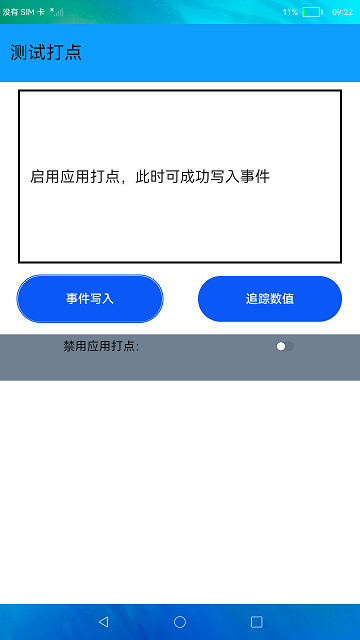
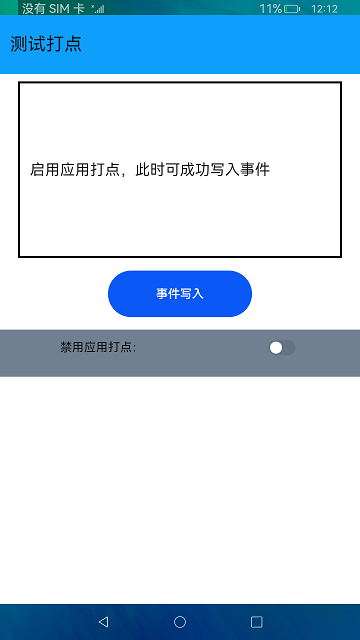
!922 应用打点删除废弃接口 * update code

diff --git a/DFX/JsDotTest/entry/src/main/js/MainAbility/pages/index/index.js b/DFX/JsDotTest/entry/src/main/js/MainAbility/pages/index/index.js
@@ -14,57 +14,42 @@
  */
 
 import prompt from '@ohos.prompt';
-import hiTraceMeter from '@ohos.hiTraceMeter';
 import hiAppEvent from '@ohos.hiAppEvent';
 
 export default {
-    data: {
-        Text: ''
-    },
+  data: {
+    Text: ''
+  },
 
-    appEvent: function () {
-        hiAppEvent.write("test_event", hiAppEvent.EventType.STATISTIC, {
-            "int_data": 100, "str_data": "strValue"
-        }, (err, value) => {
-            if (err) {
-                console.error(`failed to write event because ${err.code}`);
-                this.Text = this.$t('strings.write_failed') + JSON.stringify(err)
-                return;
-            }
+  appEvent: function () {
+    hiAppEvent.write("test_event", hiAppEvent.EventType.STATISTIC, {
+      "int_data": 100, "str_data": "strValue"
+    }, (err, value) => {
+      if (err) {
+        console.error(`failed to write event because ${err.code}`);
+        this.Text = this.$t('strings.write_failed') + JSON.stringify(err)
+        return;
+      }
 
-            prompt.showToast({
-                message: "success to write event"
-            });
-            this.Text = this.$t('strings.write_success');
-            console.log(`success to write event: ${value}`);
-        });
-    },
+      prompt.showToast({
+        message: "success to write event"
+      });
+      this.Text = this.$t('strings.write_success');
+      console.log(`success to write event: ${value}`);
+    });
+  },
 
-    hiTraceMeter: function () {
-        hiTraceMeter.startTrace("start TestFunc", 1)
-        let sum = 0;
-        hiTraceMeter.traceByValue("start TestNum", sum)
-        for (let index = 0; index < 1000; index++) {
-            sum = sum + index;
-        }
-        hiTraceMeter.traceByValue("finish TestNum", sum)
-        prompt.showToast({
-            message: "finish add"
-        })
-        hiTraceMeter.finishTrace("finish TestFunc", 1);
-    },
-
-    switchChange(e) {
-        if (e.checked) {
-            hiAppEvent.configure({
-                disable: e.checked
-            });
-            this.Text = this.$t('strings.appDisabled');
-        } else {
-            hiAppEvent.configure({
-                disable: e.checked
-            });
-            this.Text = this.$t('strings.appAble')
-        }
+  switchChange(e) {
+    if (e.checked) {
+      hiAppEvent.configure({
+        disable: e.checked
+      });
+      this.Text = this.$t('strings.appDisabled');
+    } else {
+      hiAppEvent.configure({
+        disable: e.checked
+      });
+      this.Text = this.$t('strings.appAble')
     }
+  }
 }

diff --git a/DFX/JsDotTest/entry/src/main/js/MainAbility/app.js b/DFX/JsDotTest/entry/src/main/js/MainAbility/app.js
@@ -14,10 +14,10 @@
  */
 
 export default {
-    onCreate() {
-        console.info("Application onCreate");
-    },
-    onDestroy() {
-        console.info("Application onDestroy");
-    }
+  onCreate() {
+    console.info("Application onCreate");
+  },
+  onDestroy() {
+    console.info("Application onDestroy");
+  }
 };
